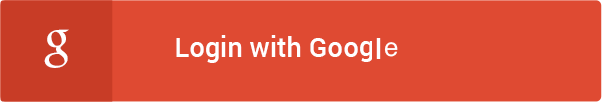
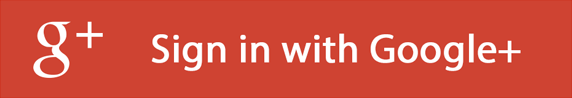
Update oauth login buttons

diff --git a/app/public/style.css b/app/public/style.css
@@ -1,3 +1,7 @@
+body {
+  font-family: 'Raleway', sans-serif;
+}
+
 .loader {
   border: 4px solid #f3f3f3; /* Light grey */
   border-top: 4px solid #3498db; /* Blue */
@@ -18,15 +22,25 @@
 }
 
 #layout-footer #footer-text {
-  float: right;
   padding-right: 10px;
   padding-top: 10px;
-}
-
-.dropdown-menu {
-
+  text-align: right;
 }
 
 .navbar {
   background-color: rgb(250, 250, 250);
+}
+
+.oauth-login-links {
+  text-align: left;
+}
+
+.oauth-link {
+  padding-bottom: 10px;
+}
+
+.oauth-img {
+  width: 50%;
+  height: 50%;
+  box-shadow: 1px 1px 5px grey;
 }
